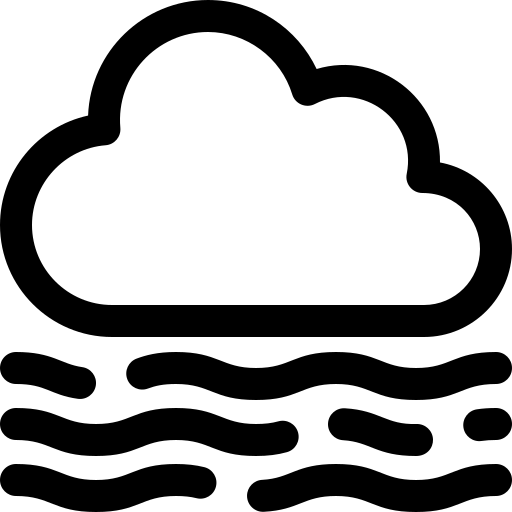
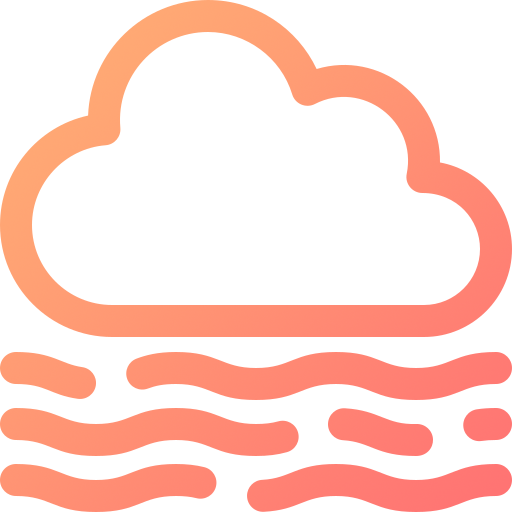
Fix css and weather images

diff --git a/src/pages/Home.css b/src/pages/Home.css
@@ -61,8 +61,12 @@
     padding: 100px 50px;
     min-height: 447px;
     text-align: center;
-    overflow: scroll;
+    overflow-y: auto;
     overflow-x: hidden;
+}
+
+.result_container {
+    max-height: 447px;
 }
 
 .home_title h1, h2 {
@@ -90,21 +94,25 @@
 }
 
 .home_weather {
-    background: #FFAF74;  /* fallback for old browsers */
-    background: -webkit-linear-gradient(to bottom right, #FFAF74, #FF6F73);  /* Chrome 10-25, Safari 5.1-6 */
-    background: linear-gradient(to bottom right, #FFAF74, #FF6F73); /* W3C, IE 10+/ Edge, Firefox 16+, Chrome 26+, Opera 12+, Safari 7+ */
     border-radius: 50px;
-    width: 170px;
+    width: 160px;
     margin: 50px auto 40px;
-    padding: 20px 0;
-    color: #fff;
-    box-shadow: 3px 3px 5px rgba(160, 60, 60, 0.3);
+    padding: 25px 0;
+    box-shadow: inset 3px 3px 6px rgba(160, 60, 60, 0.3);
+}
+
+.home_weather .weatherTemp {
+    background: #FFAF74;
+    background: -webkit-linear-gradient(to bottom right, #FFAF74, #FF6F73);
+    background: linear-gradient(to bottom right, #FFAF74, #FF6F73);
+    -webkit-background-clip: text;
+    background-clip: text; 
+    color: transparent;
 }
 
 .home_weather .weatherIcon {
     width: 70px;
-    filter: invert(100);
-    margin: 10px 0;
+    margin-top: 10px;
 }
 
 .home_weather .home_loading {
@@ -117,8 +125,9 @@
     font-weight: 500;
 }
 
-.home_weather .weatherTitle {
-    margin-bottom: 5px;
+.mood_box, .food_box {
+    position: sticky;
+    top: 35%;
 }
 
 .mood_ask, .food_ask {
@@ -128,11 +137,20 @@
 }
 
 .moods, .foods {
-    margin-bottom: 20px;
+    margin-bottom: 40px;
+}
+
+.result_loading {
+    position: sticky;
+    top: 35%;
 }
 
 .list_item img {
-    width: 300px;
+    width: 80%;
+}
+
+.list_item + .list_item {
+    margin-top : 10px;
 }
 
 .footer {
@@ -166,6 +184,12 @@
     }
     .home_weather .weatherIcon {
         width: 60px;
+    }
+    .mood_ask {
+        font-size: 22px;
+    }
+    .moods {
+        font-size: 14px;
     }
 }
 

diff --git a/src/components/Food.js b/src/components/Food.js
@@ -21,14 +21,16 @@ const Food = ({ state, toggle, setToggle }) => {
     }
     return (
         <div className="food_container">
-            <h1 className="food_ask">지금 어떤 맛이 땡기나요?</h1>
-            <div className="foods">
-                <input type="radio" name="taste" value="spicy" id="spicy" onChange={handleFoodChange} /><label htmlFor="spicy">매운거</label>
-                <input type="radio" name="taste" value="oily" id="oily" onChange={handleFoodChange} /><label htmlFor="oily">기름진거</label>
-                <input type="radio" name="taste" value="light" id="light" onChange={handleFoodChange} /><label htmlFor="light">담백한거</label>
-                <input type="radio" name="taste" value="soup" id="soup" onChange={handleFoodChange} /><label htmlFor="soup">호로록 국물있는거</label>
+            <div className="food_box">
+                <h1 className="food_ask">지금 어떤 맛이 땡기나요?</h1>
+                <div className="foods">
+                    <input type="radio" name="taste" value="spicy" id="spicy" onChange={handleFoodChange} /><label htmlFor="spicy">매운거</label>
+                    <input type="radio" name="taste" value="oily" id="oily" onChange={handleFoodChange} /><label htmlFor="oily">기름진거</label>
+                    <input type="radio" name="taste" value="light" id="light" onChange={handleFoodChange} /><label htmlFor="light">담백한거</label>
+                    <input type="radio" name="taste" value="soup" id="soup" onChange={handleFoodChange} /><label htmlFor="soup">호로록 국물있는거</label>
+                </div>
+                <button className="food_next btn" onClick={handleFoodClick}>NEXT</button>
             </div>
-            <button className="food_next btn" onClick={handleFoodClick}>NEXT</button>
         </div>
     );
 }

diff --git a/src/components/Weather.js b/src/components/Weather.js
@@ -19,12 +19,8 @@ const weatherOptions = {
         title: "Rain"
     },
     Snow: {
-        iconName: "/images/003-snowy.png",
+        iconName: "/images/025-snow.png",
         title: "Snow"
-    },
-    Atmosphere: {
-        iconName: "/images/009-cloudy.png",
-        title: "Atmosphere"
     },
     Clear: {
         iconName: "/images/005-sun.png",
@@ -42,15 +38,18 @@ const weatherOptions = {
         iconName: "/images/012-windy.png",
         title: "Dust"
     },
+    Tornado: {
+        iconName: "/images/015-tornado.png",
+        title: "Tornado"
+    }
 }
 const Weather = ({ temp, condition }) => {
 
     return (
-        <ul>
-            <li className="weatherTemp">{Math.round(temp)}˚C</li>
-            <li><img src={weatherOptions[condition].iconName} className="weatherIcon" alt={condition} /></li>
-            <li className="weatherTitle">{weatherOptions[condition].title}</li>
-        </ul>
+        <div className="weatherbox">
+            <p className="weatherTemp">{Math.round(temp)}˚C</p>
+            <img src={weatherOptions[condition].iconName} className="weatherIcon" alt={condition} />
+        </div>
     );
 }
 

diff --git a/src/reset.css b/src/reset.css
@@ -33,7 +33,7 @@ footer, header, hgroup, menu, nav, section {
 body {
 	height: 100%;
 	line-height: 1;
-	color: #524D4D;
+	color: #a03c3c;
 	font-family: 'Noto Sans KR', sans-serif;
 	font-weight: 300;
 }
